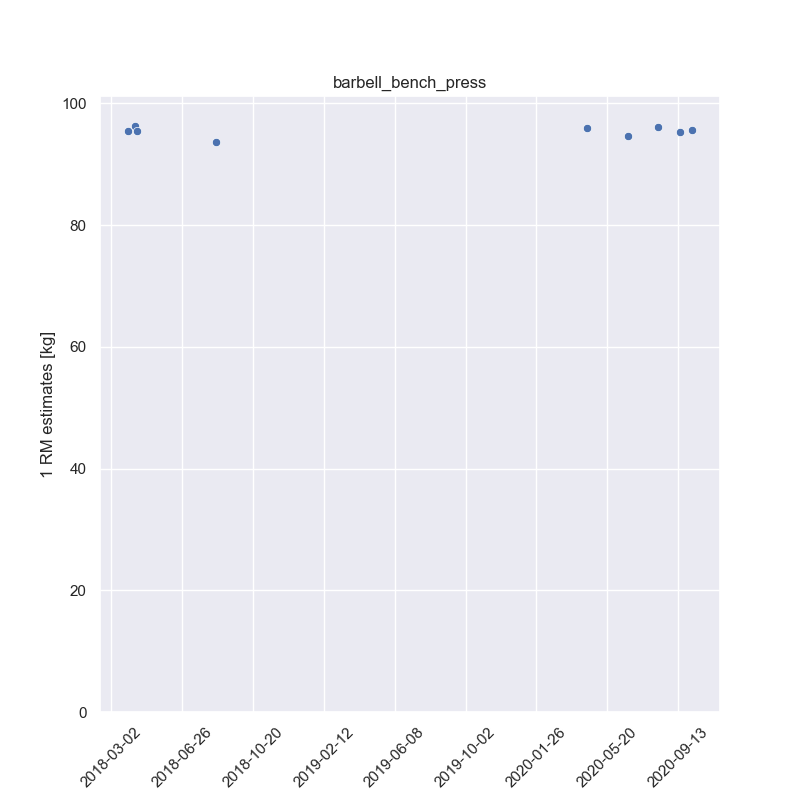
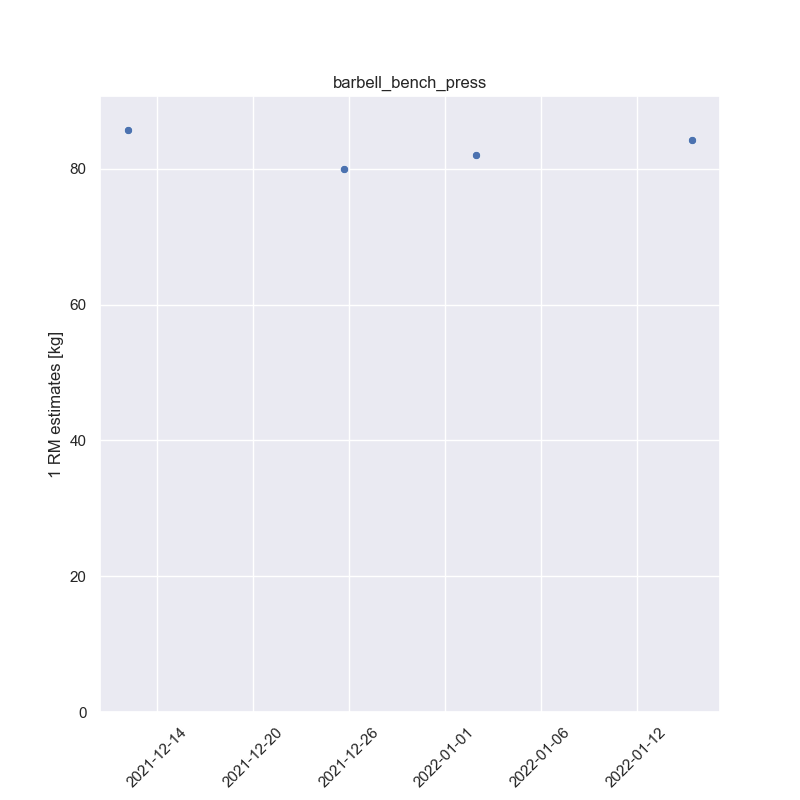
Add today's workout

diff --git a/src/model/plot_model.py b/src/model/plot_model.py
@@ -58,7 +58,7 @@ def main():
     table = db.table("weight_training_log")
 
     splits_and_key_exercises = [
-        # ("chest", "barbell_bench_press"),
+        ("chest", "barbell_bench_press"),
         # ("back_and_biceps", "seated_row"),
         # ("back", "seated_row"),
         ("legs", "squat"),

diff --git a/src/CRUD/insert.py b/src/CRUD/insert.py
@@ -63,7 +63,7 @@ def main():
     table = db.table(logs[0])
 
     if data_model == "real":
-        date = "2022-01-15"
+        date = "2022-01-16"
         insert_specific_log(date, table)
 
         """
